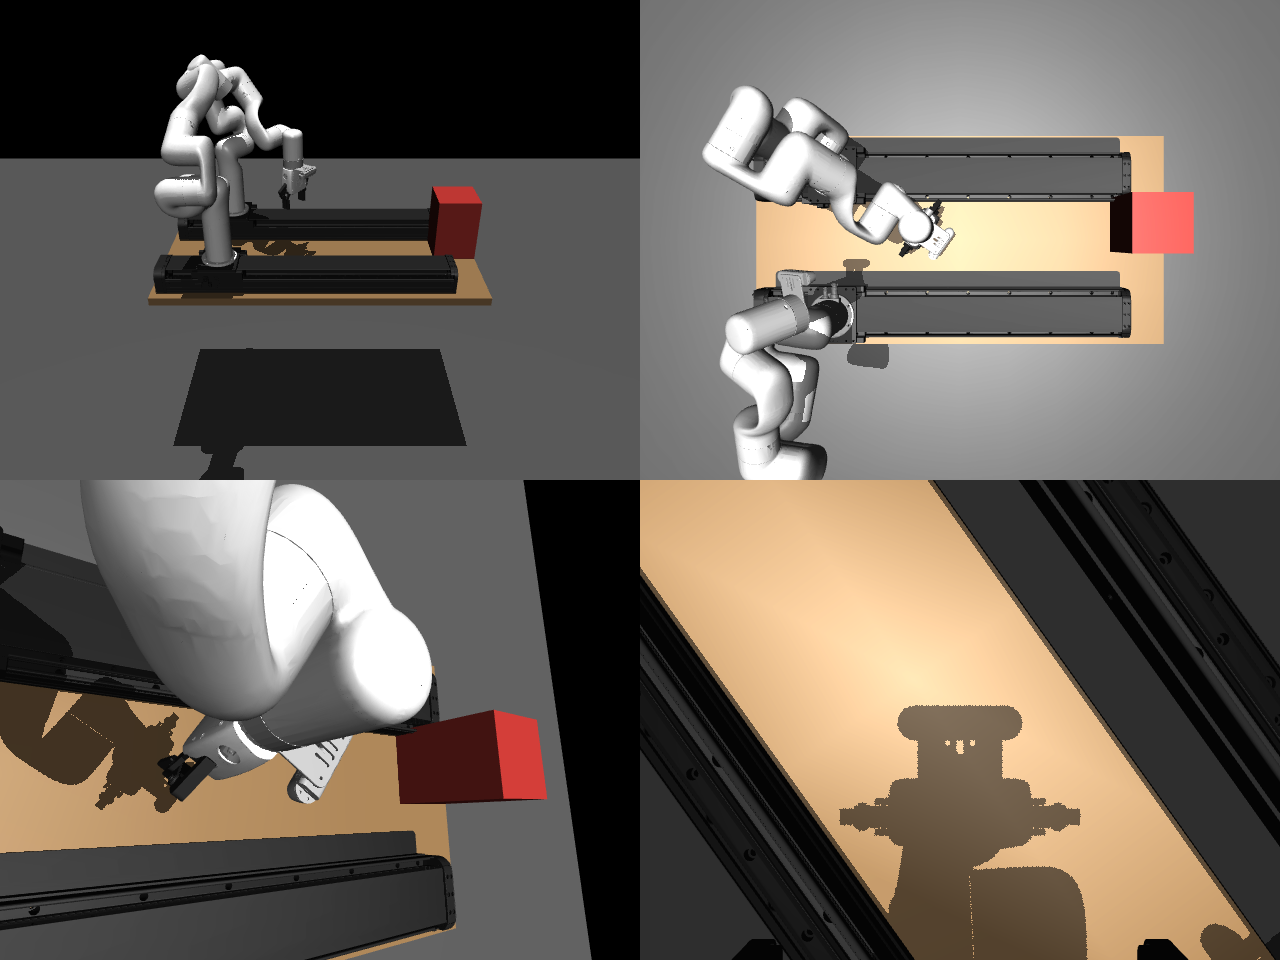
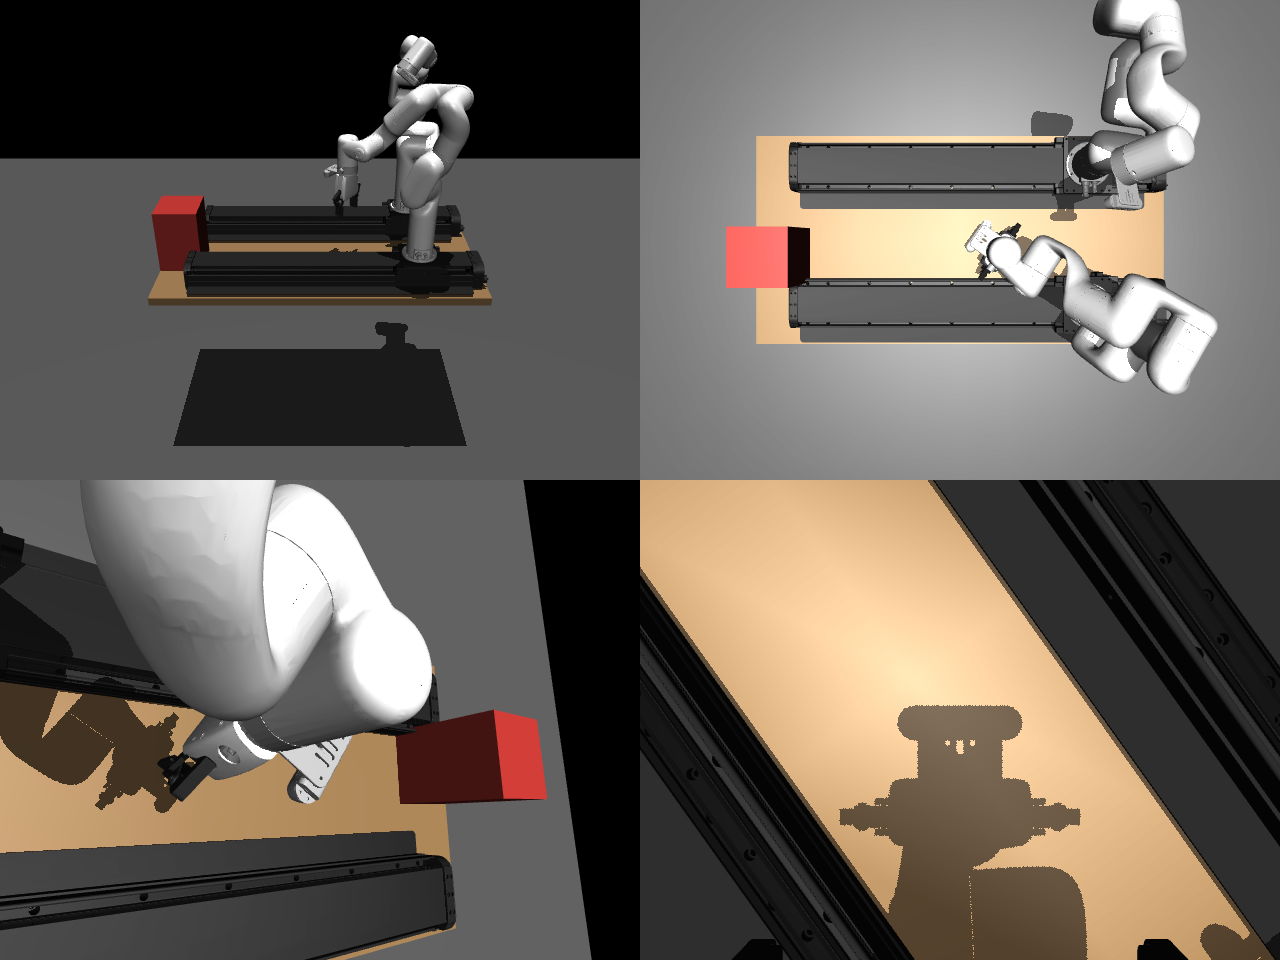
docs: mavis_v2 overview cameras framed obstacle-on-left (regen renders)
Match apollo-xarm7-sim: cam_front/cam_top/free view rotated 180 about Z so the
red obstacle sits on the image LEFT (the operator's real view). Regenerated
cam_front.png, cam_top.png, operator_view.png, the 2x2 sheet and wrist cams;
render_mavis_v2.py + 03-sim.md updated to the -Y convention.

Changed region(s): [[0.5312, 0.0, 0.9688, 0.5], [0.0938, 0.0312, 0.375, 0.375], [0.1562, 0.4375, 0.1875, 0.5]]

diff --git a/docs/renders/mavis_v2/render_mavis_v2.py b/docs/renders/mavis_v2/render_mavis_v2.py
@@ -7,9 +7,10 @@ Usage (from the workspace root, sim repo's uv env)::
 
 Writes the scene cameras (cam_front, cam_top, view_wrist_cam, grip_wrist_cam), a
 2x2 contact sheet, and ``operator_view.png`` from MuJoCo's free camera using the
-scene's default ``view`` (azimuth -90 / elevation -30: camera at +Y looking -Y,
-the operator's side; camera-only arm nearest). The older ``facing_outer_edge*.png``
-in this directory were taken from behind the arms (-Y side) and are NOT regenerated.
+scene's default ``view`` (azimuth +90 / elevation -30: camera at -Y looking +Y),
+which frames the red obstacle (the -X end) on the LEFT, matching the operator's
+real view of the cell (the gripper arm renders nearer, the camera-only arm far).
+The older ``facing_outer_edge*.png`` in this directory are NOT regenerated.
 """
 
 from __future__ import annotations
@@ -71,7 +72,7 @@ def main() -> None:
         cam.type = mujoco.mjtCamera.mjCAMERA_FREE
         cam.lookat[:] = OPERATOR_VIEW["lookat"]
         cam.distance = OPERATOR_VIEW["distance"]
-        cam.azimuth = model.vis.global_.azimuth  # -90: at +Y looking -Y
+        cam.azimuth = model.vis.global_.azimuth  # +90: at -Y looking +Y (obstacle on the left)
         cam.elevation = model.vis.global_.elevation  # -30
         r.update_scene(data, camera=cam, scene_option=opt)
         save(r.render(), "operator_view.png")

diff --git a/docs/design/03-sim.md b/docs/design/03-sim.md
@@ -225,14 +225,14 @@ thin cable-tray plate toward the interior, zero at the right end, travel toward
 | obstacle | 0.16 × 0.16 × 0.24 m untouchable block, flush against the **left** edge (the empty end) in the channel; near face 27.5 cm in from the outer edge | half `[0.08, 0.08, 0.12]` at `(−0.5275, −0.045, 0.855)`, y ∈ [−0.125, 0.035]; its inner face is 1.4 cm past the mesh gripper-rail inner edge and the 1.0926 m mesh rail reaches 3.8 cm into its x-span — a static corner overlap (mesh vs real track), harmless to twin and physics |
 | keyframe | rails at zero (right end); gripper elbow-up in the channel, tool down, TCP 4.5 cm below the obstacle top; camera arm turned round (j1 ≈ π) looking down the channel | audit-clean at δ = 0.008 and 0.025 |
 | `allowed_pairs` | carriages ↔ table (24 mm by construction) | two pairs |
-| cameras / `view` | **operator convention**: the operator stands at the OUTER edge (+Y) facing −Y, i.e. facing the arms with the camera arm nearest; every overview is taken from that side, so image right = −X (the obstacle end on the right) | `cam_front` at `(0, 2.0, 1.9)`, `xyaxes [-1,0,0, 0,-0.55,1]` (looks −Y and down); `cam_top` at `(0, 0, 2.6)`, `xyaxes [-1,0,0, 0,-1,0]` (image up = −Y: outer edge at the bottom); `view: {azimuth: -90, elevation: -30}` (free camera at +Y looking −Y — the runtime `sim` stream default) |
+| cameras / `view` | **operator convention**: every overview is framed so the red obstacle (the −X / empty end) is on the LEFT of the image, matching the operator's real view of the cell; all three look from the −Y side toward +Y, so image right = +X. From this side the gripper arm (−Y) renders nearer and the camera-only arm (+Y) far | `cam_front` at `(0, -2.0, 1.9)`, `xyaxes [1,0,0, 0,0.55,1]` (looks +Y and down); `cam_top` at `(0, 0, 2.6)`, `xyaxes [1,0,0, 0,1,0]` (image up = +Y: outer edge at the top); `view: {azimuth: 90, elevation: -30}` (free camera at −Y looking +Y — the runtime `sim` stream default) |
 
 Reference renders live in `docs/renders/mavis_v2/` (`render_mavis_v2.py`
 regenerates them): `cam_front.png`, `cam_top.png`, the two wrist cams, the 2×2
-contact sheet and `operator_view.png` (free camera, azimuth −90 / elevation −30,
-lookat the table centre) all follow the operator convention above; the older
-`facing_outer_edge*.png` were taken from **behind the arms** (free camera at −Y,
-azimuth 45/90/135, before the convention was fixed) and are kept for comparison.
+contact sheet and `operator_view.png` (free camera, azimuth +90 / elevation −30,
+lookat the table centre) all follow the operator convention above (obstacle on
+the LEFT); the older `facing_outer_edge*.png` predate the convention and are kept
+for comparison.
 
 Rail mesh facts used (mavis asset, unverified vs hardware — phase-09 item):
 across-axis extent `[−0.120, +0.0724]` m about the base line (the −0.120 side is
